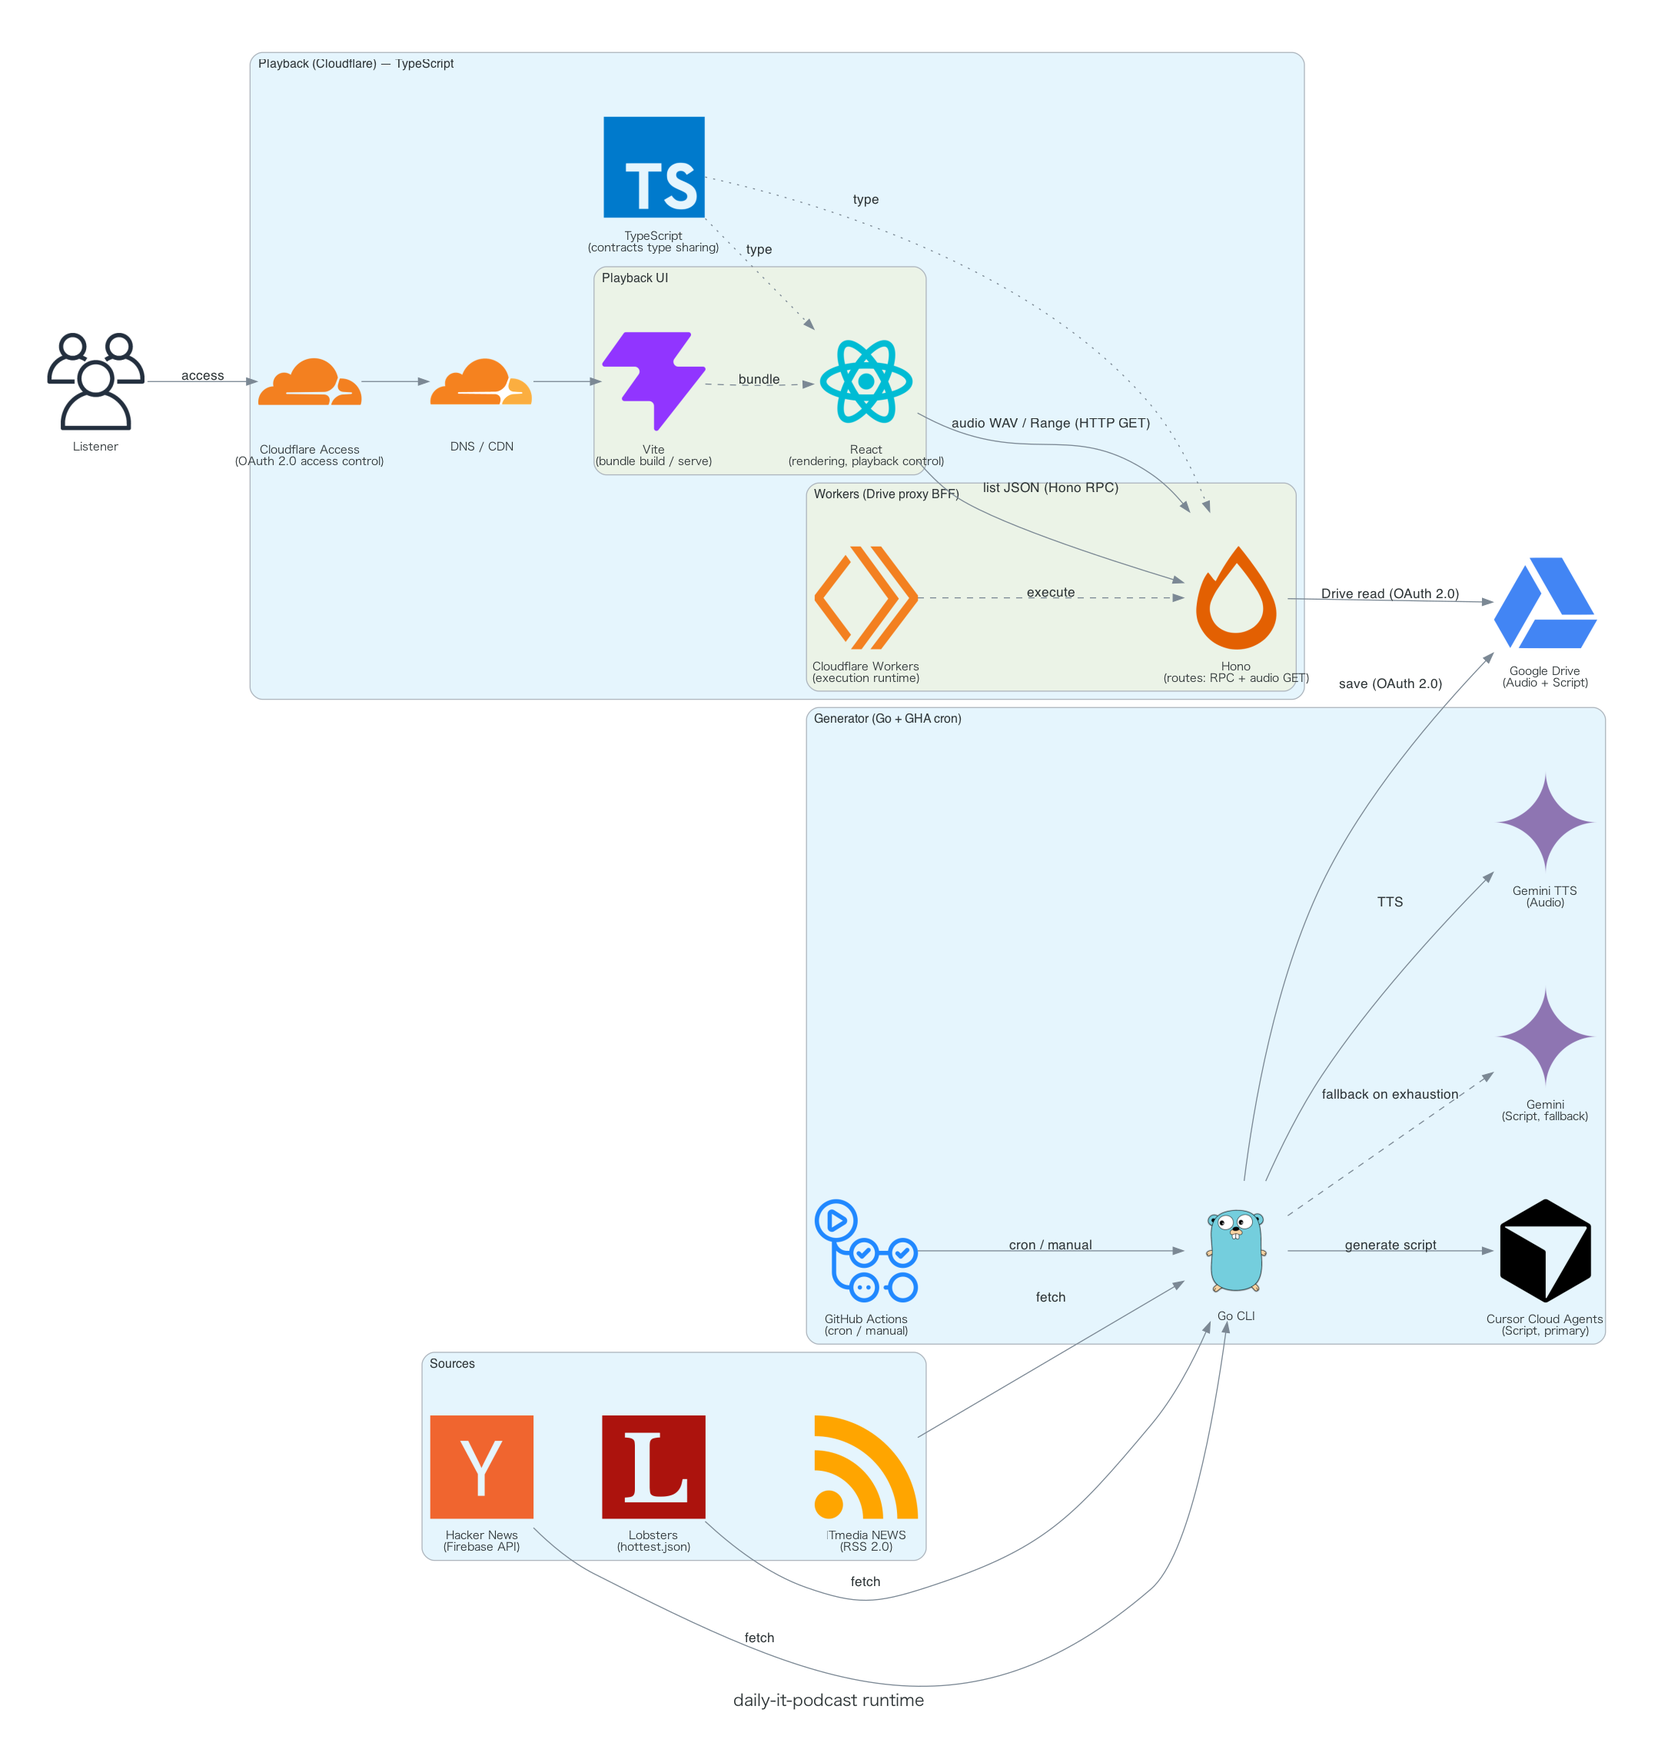
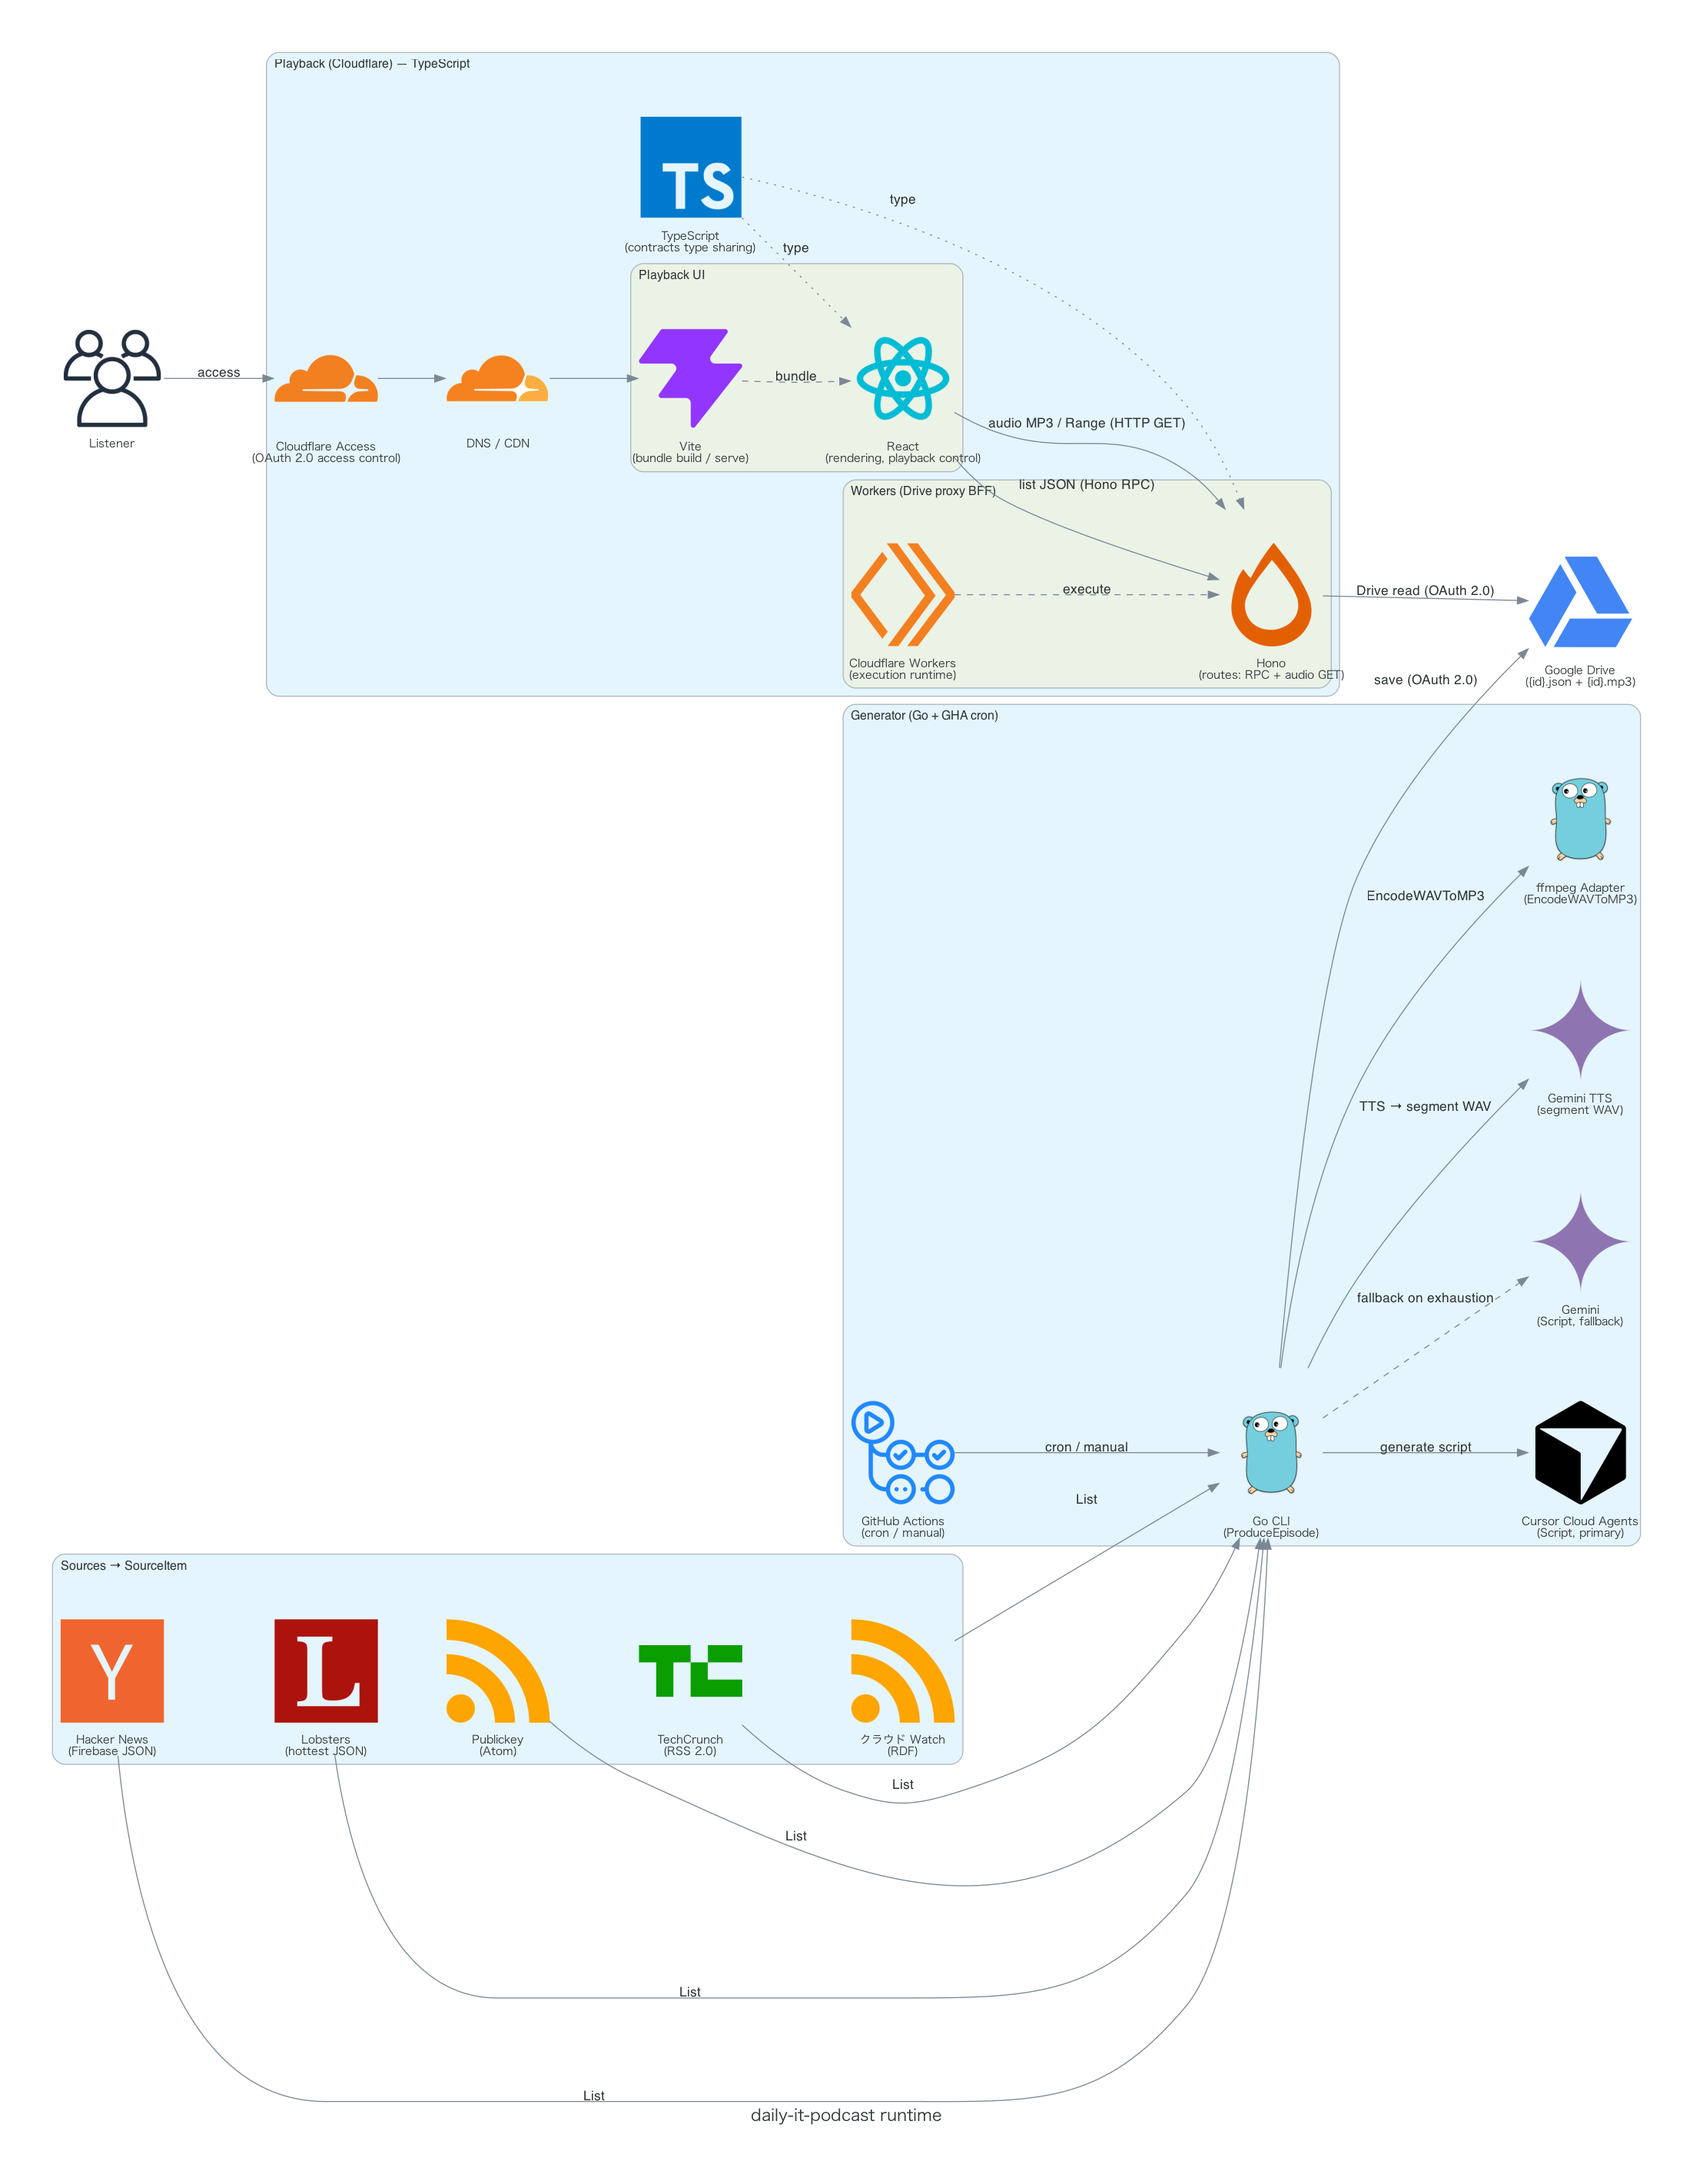
docs(diagram): runtime 図を 5 源と mp3 所有へ合わせる
ITmedia/WAV 配信前提の地図が現行 SourceItem 源と ProduceEpisode の所有と食い違うため、図の辺を実装に合わせる。

Changed region(s): [[0.0311, 0.0, 0.994, 0.9015], [0.0311, 0.1554, 0.0932, 0.2487], [0.4349, 0.9637, 0.5591, 0.9947]]

diff --git a/apps/diagrams/runtime.py b/apps/diagrams/runtime.py
@@ -33,7 +33,9 @@ CUSTOM_NODE_NAMES: tuple[str, ...] = (
     "github-actions",
     "hackernews",
     "lobsters",
-    "itmedia-rss",
+    "techcrunch",
+    "publickey",
+    "cloudwatch",
     "vite",
 )
 
@@ -63,7 +65,7 @@ def render() -> Path:
         "fontname": font,
         "fontsize": "16",
         "pad": "0.6",
-        "nodesep": "0.6",
+        "nodesep": "0.55",
         "ranksep": "0.9",
         "bgcolor": "white",
         "splines": "spline",
@@ -80,7 +82,9 @@ def render() -> Path:
     gha_icon = str(rasterize(icon_path("github-actions")))
     hn_icon = str(rasterize(icon_path("hackernews")))
     lobsters_icon = str(rasterize(icon_path("lobsters")))
-    itmedia_icon = str(rasterize(icon_path("itmedia-rss")))
+    publickey_icon = str(rasterize(icon_path("publickey")))
+    techcrunch_icon = str(rasterize(icon_path("techcrunch")))
+    cloudwatch_icon = str(rasterize(icon_path("cloudwatch")))
     vite_icon = str(rasterize(icon_path("vite")))
 
     with Diagram(
@@ -95,23 +99,40 @@ def render() -> Path:
     ):
         user = Users("Listener")
 
-        with Cluster("Sources"):
-            hn = Custom("Hacker News\n(Firebase API)", hn_icon)
-            lobsters = Custom("Lobsters\n(hottest.json)", lobsters_icon)
-            itmedia = Custom("ITmedia NEWS\n(RSS 2.0)", itmedia_icon)
-            # why: 3 サイトは対等な並列取得元。invisible edge で同一 rank に固定し横並びにする。
-            hn - Edge(style="invis") - lobsters - Edge(style="invis") - itmedia
+        # why: SourceItem を返す 5 Adapter（DESIGN / Decision 2026-09-13T15-08-55）。
+        #   ITmedia 単源ではない。JSON API と feed（Atom/RSS/RDF）を並べる。
+        with Cluster("Sources → SourceItem"):
+            hn = Custom("Hacker News\n(Firebase JSON)", hn_icon)
+            lobsters = Custom("Lobsters\n(hottest JSON)", lobsters_icon)
+            publickey = Custom("Publickey\n(Atom)", publickey_icon)
+            techcrunch = Custom("TechCrunch\n(RSS 2.0)", techcrunch_icon)
+            cloudwatch = Custom("クラウド Watch\n(RDF)", cloudwatch_icon)
+            # why: 5 源は対等な並列取得。invisible edge で同一 rank に寄せる。
+            (
+                hn
+                - Edge(style="invis")
+                - lobsters
+                - Edge(style="invis")
+                - publickey
+                - Edge(style="invis")
+                - techcrunch
+                - Edge(style="invis")
+                - cloudwatch
+            )
 
         with Cluster("Generator (Go + GHA cron)"):
             actions = Custom("GitHub Actions\n(cron / manual)", gha_icon)
-            go_cli = Go("Go CLI")
+            # why: ConcatWAV / Timeline は Application 内製。外へ出さない。
+            go_cli = Go("Go CLI\n(ProduceEpisode)")
             # why: 原稿は Cursor Cloud Agents が第一経路。枯渇時は Gemini へ fallback する
             #   （text_writer fallback）。どちらも「原稿」を作るので両方を原稿経路として描く。
             cursor_api = Custom("Cursor Cloud Agents\n(Script, primary)", cursor_icon)
             gemini_text = Custom("Gemini\n(Script, fallback)", gemini_icon)
-            gemini_tts = Custom("Gemini TTS\n(Audio)", gemini_icon)
+            gemini_tts = Custom("Gemini TTS\n(segment WAV)", gemini_icon)
+            # why: WAV→mp3 は Port（WAVToMP3Encoder）経由の Infra Adapter。save はしない。
+            ffmpeg = Go("ffmpeg Adapter\n(EncodeWAVToMP3)")
 
-        drive = Custom("Google Drive\n(Audio + Script)", drive_icon)
+        drive = Custom("Google Drive\n({id}.json + {id}.mp3)", drive_icon)
 
         with Cluster("Playback (Cloudflare) — TypeScript"):
             access = Custom("Cloudflare Access\n(OAuth 2.0 access control)", access_icon)
@@ -126,17 +147,21 @@ def render() -> Path:
             with Cluster("Workers (Drive proxy BFF)"):
                 workers = Custom("Cloudflare Workers\n(execution runtime)", workers_icon)
                 # why: Hono の route は 2 本。/episodes は RPC client（hc<AppType>）が叩く JSON、
-                #   /episodes/:id/audio は素の HTTP GET（audio/wav・Range 部分応答）で RPC を経由しない。
+                #   /episodes/:id/audio は素の HTTP GET（audio/mpeg・Range 部分応答）で RPC を経由しない。
                 hono = Custom("Hono\n(routes: RPC + audio GET)", hono_icon)
 
         # 生成フロー
-        hn >> Edge(label="fetch") >> go_cli
-        lobsters >> Edge(label="fetch") >> go_cli
-        itmedia >> Edge(label="fetch") >> go_cli
+        # why: ConcatWAV は Go CLI（ProduceEpisode）内。TTS→ffmpeg 直結や ffmpeg の save は描かない。
+        hn >> Edge(label="List") >> go_cli
+        lobsters >> Edge(label="List") >> go_cli
+        publickey >> Edge(label="List") >> go_cli
+        techcrunch >> Edge(label="List") >> go_cli
+        cloudwatch >> Edge(label="List") >> go_cli
         actions >> Edge(label="cron / manual") >> go_cli
         go_cli >> Edge(label="generate script") >> cursor_api
         go_cli >> Edge(label="fallback on exhaustion", style="dashed") >> gemini_text
-        go_cli >> Edge(label="TTS") >> gemini_tts
+        go_cli >> Edge(label="TTS → segment WAV") >> gemini_tts
+        go_cli >> Edge(label="EncodeWAVToMP3") >> ffmpeg
         go_cli >> Edge(label="save (OAuth 2.0)") >> drive
 
         # 再生フロー
@@ -144,7 +169,7 @@ def render() -> Path:
         ts >> Edge(label="type", style="dotted") >> react
         ts >> Edge(label="type", style="dotted") >> hono
         react >> Edge(label="list JSON (Hono RPC)") >> hono
-        react >> Edge(label="audio WAV / Range (HTTP GET)") >> hono
+        react >> Edge(label="audio MP3 / Range (HTTP GET)") >> hono
         workers >> Edge(label="execute", style="dashed") >> hono
         hono >> Edge(label="Drive read (OAuth 2.0)") >> drive
 

diff --git a/apps/diagrams/icons.py b/apps/diagrams/icons.py
@@ -74,9 +74,9 @@ ICON_CATALOG: dict[str, IconSource] = {
         "https://raw.githubusercontent.com/simple-icons/simple-icons/develop/icons/githubactions.svg",
         "#2088FF",
     ),
-    # why: 情報源 3 サイト。HackerNews は Y Combinator、Lobsters は専用 icon。
-    #   ITmedia NEWS は Simple Icons にブランドが無く、取得経路が RSS 2.0 feed なので
-    #   RSS icon を充てる（item_source.go の feedURL と整合）。
+    # why: 情報源 5 Adapter。HN=Y Combinator、Lobsters=専用、TechCrunch=公式ブランド。
+    #   Publickey / クラウド Watch は Simple Icons にブランドが無いので RSS 図形を源名
+    #   file として cache する（旧 itmedia-rss と同型。汎用 key "rss" は置かない）。
     "hackernews": IconSource(
         "https://raw.githubusercontent.com/simple-icons/simple-icons/develop/icons/ycombinator.svg",
         "#F0652F",
@@ -85,7 +85,15 @@ ICON_CATALOG: dict[str, IconSource] = {
         "https://raw.githubusercontent.com/simple-icons/simple-icons/develop/icons/lobsters.svg",
         "#AC130D",
     ),
-    "itmedia-rss": IconSource(
+    "techcrunch": IconSource(
+        "https://raw.githubusercontent.com/simple-icons/simple-icons/develop/icons/techcrunch.svg",
+        "#0A9E01",
+    ),
+    "publickey": IconSource(
+        "https://raw.githubusercontent.com/simple-icons/simple-icons/develop/icons/rss.svg",
+        "#FFA500",
+    ),
+    "cloudwatch": IconSource(
         "https://raw.githubusercontent.com/simple-icons/simple-icons/develop/icons/rss.svg",
         "#FFA500",
     ),
